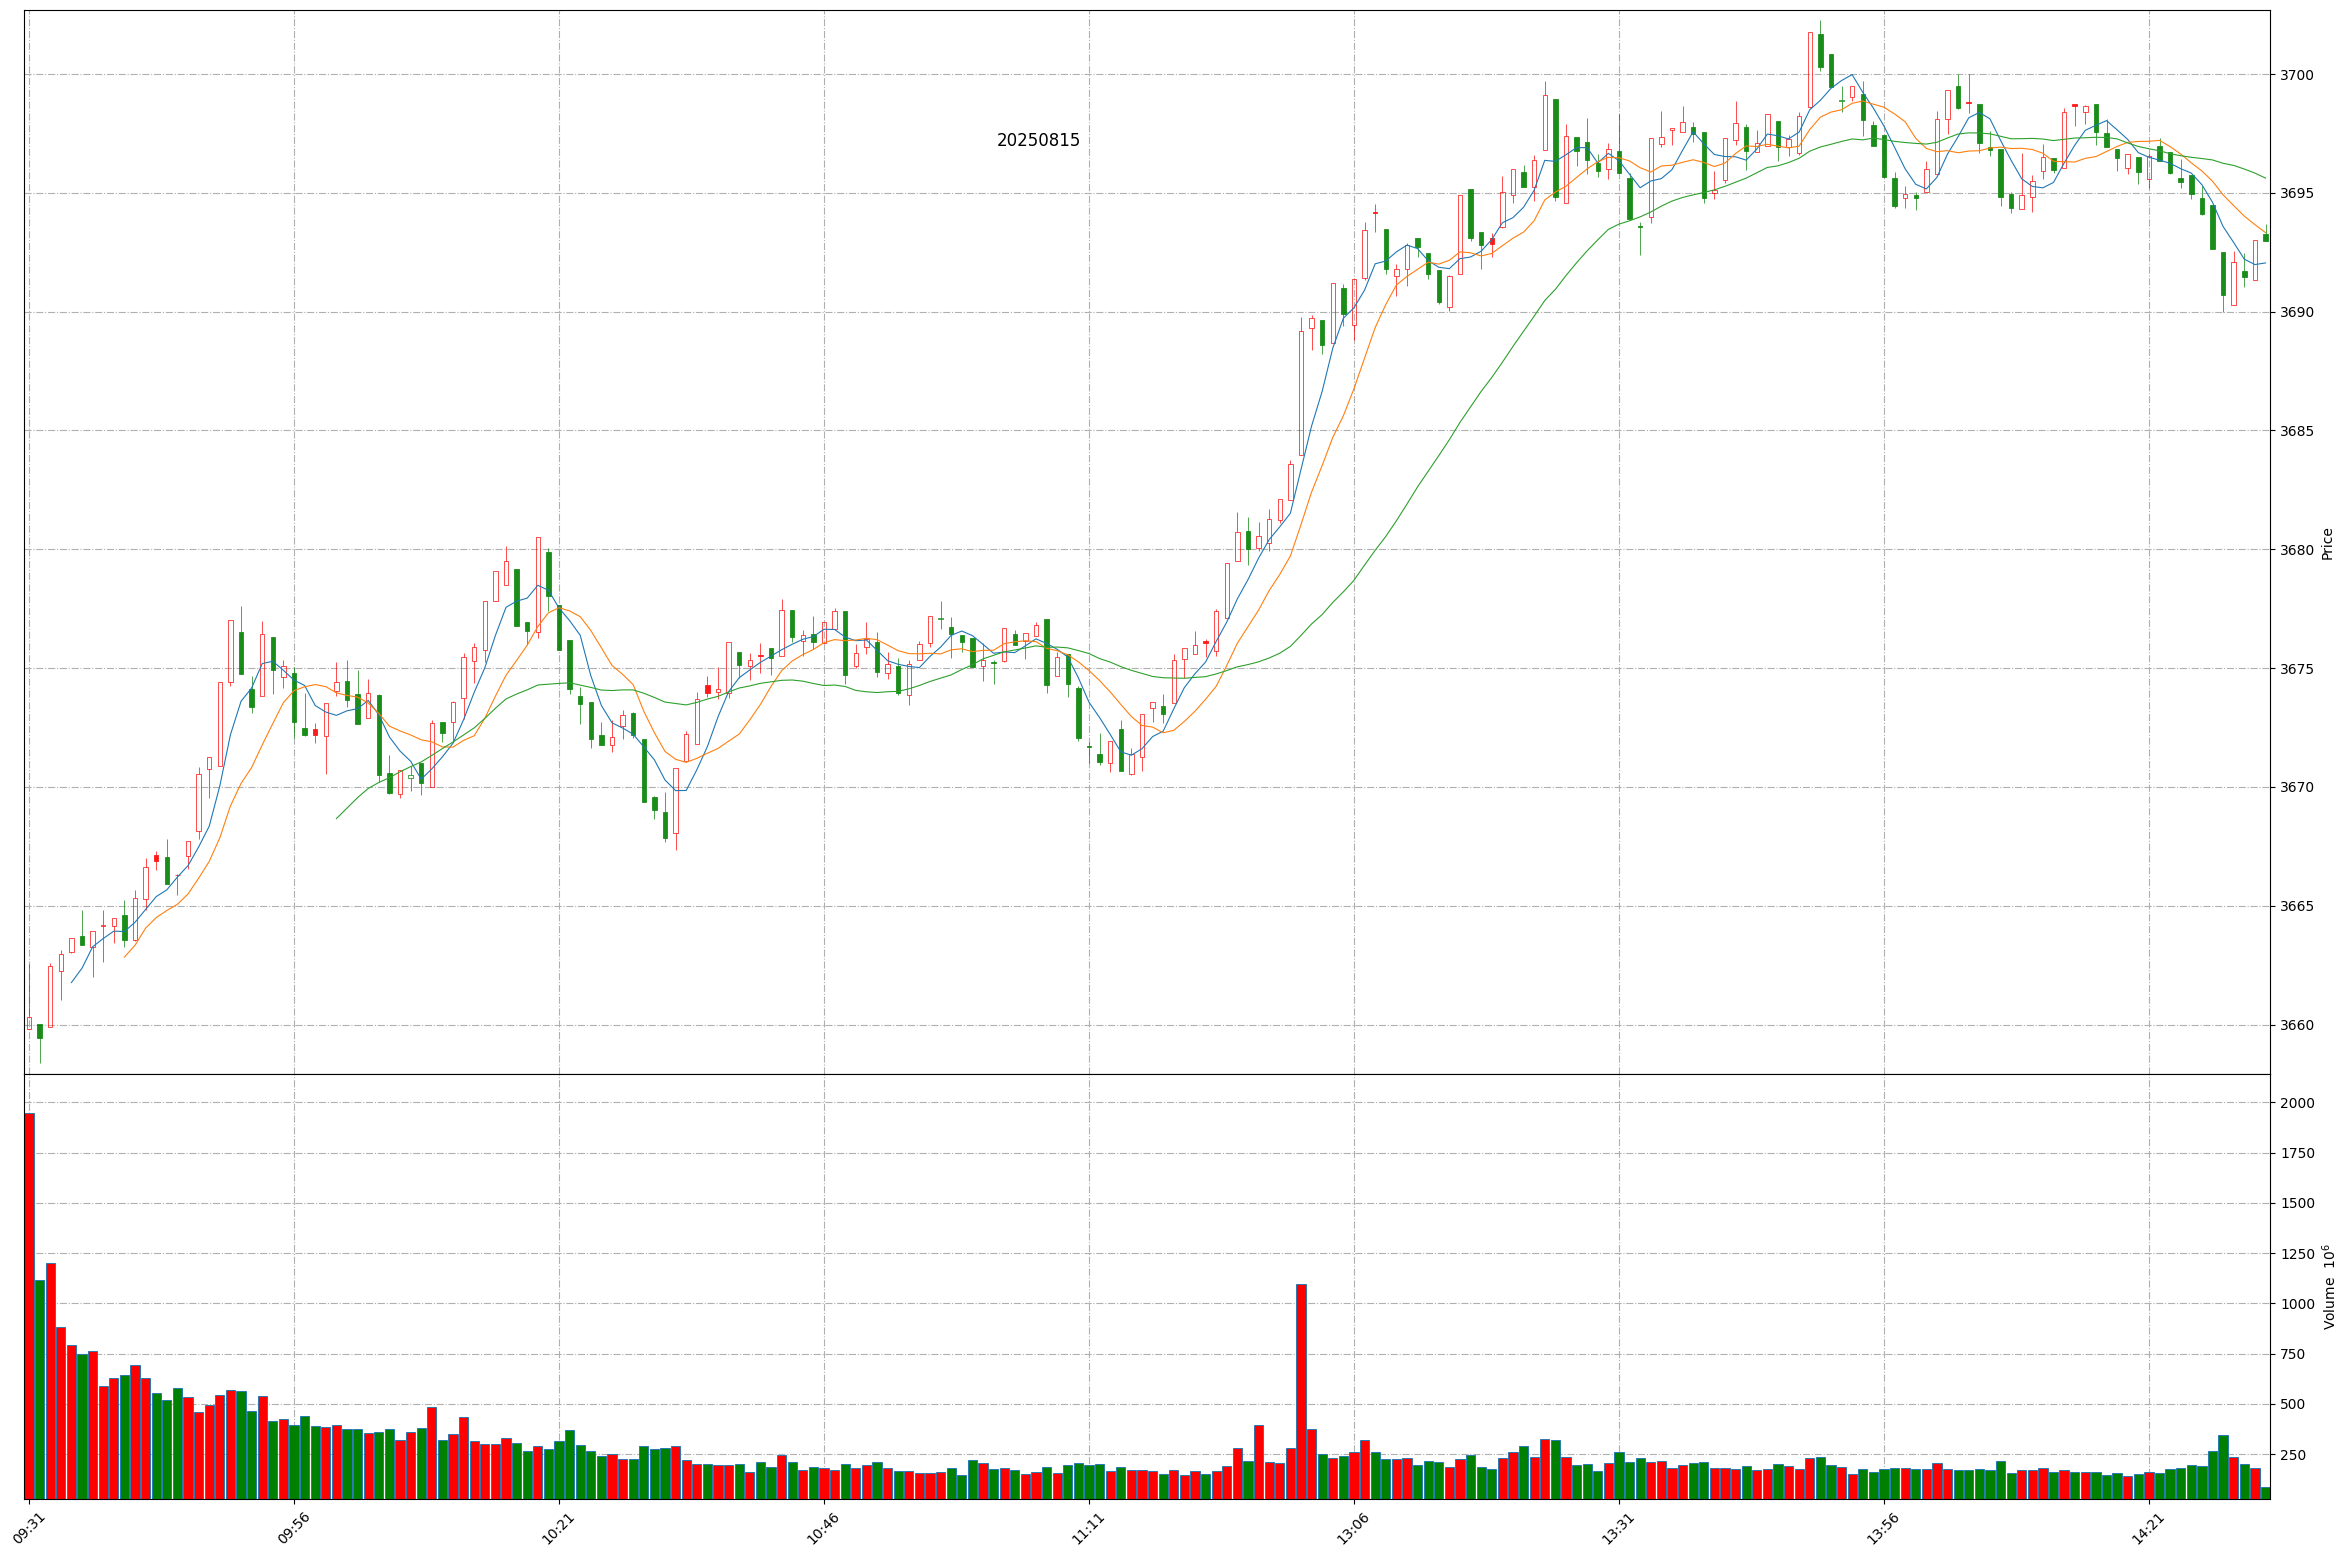
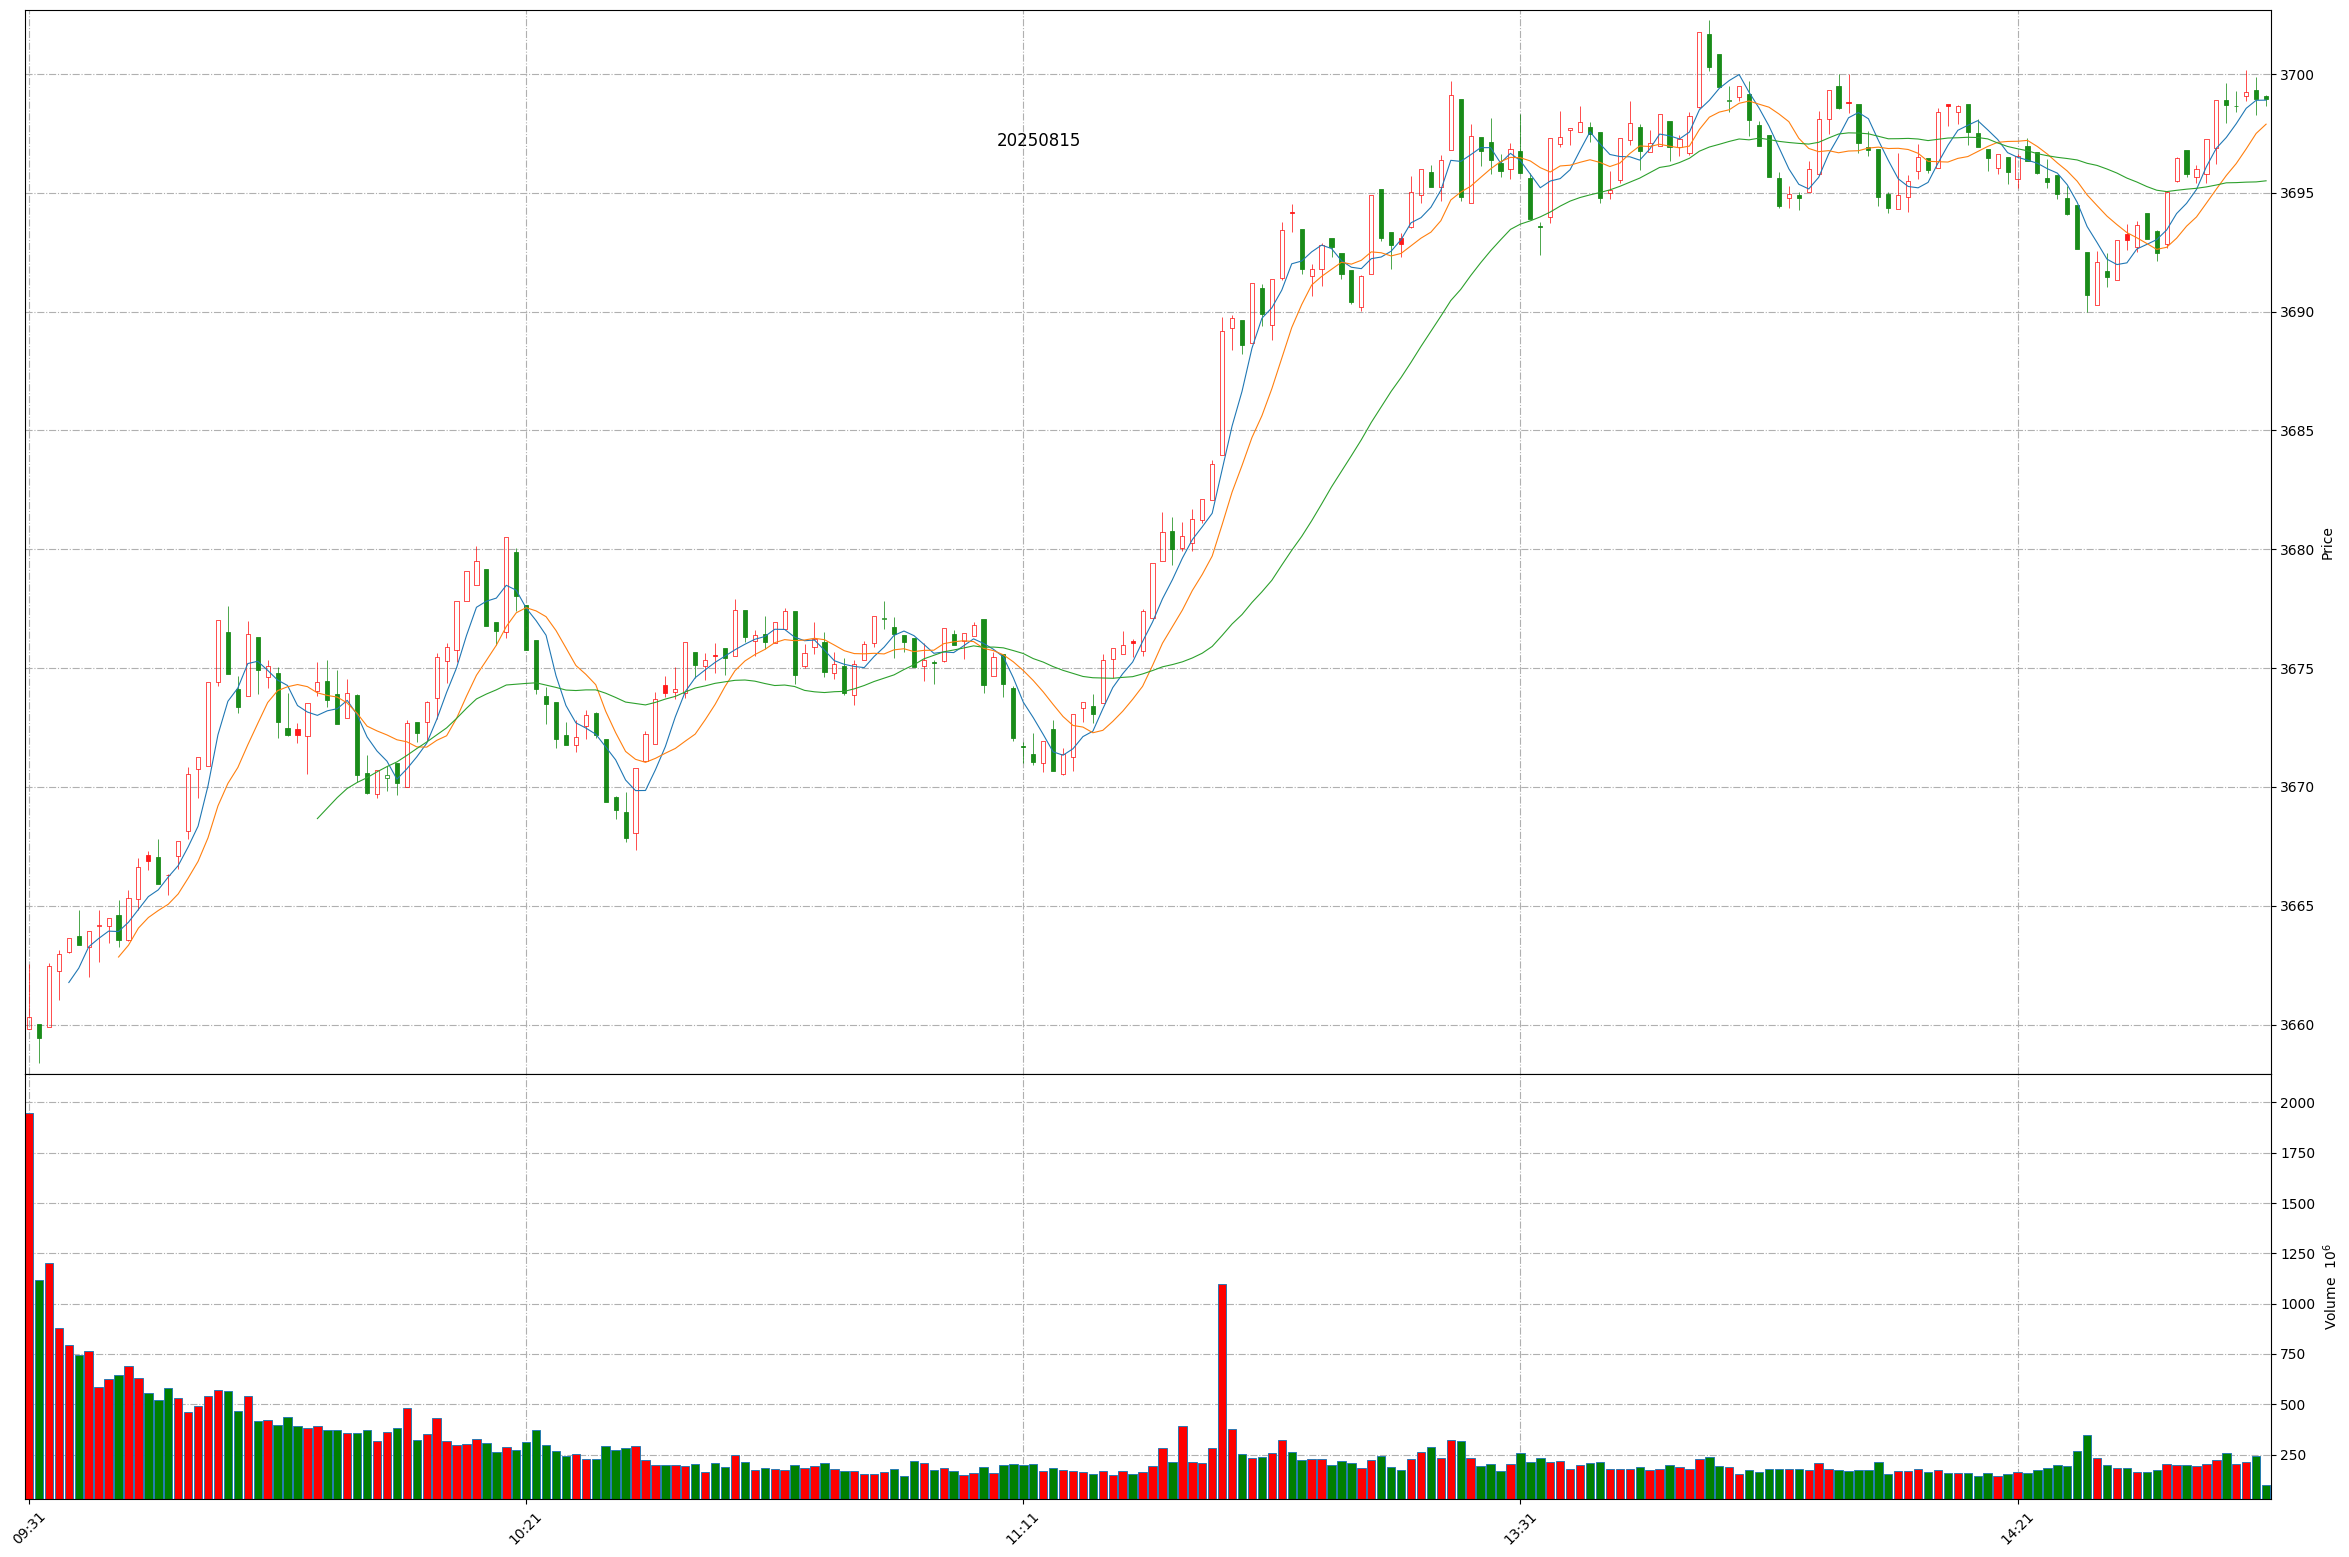
Github action update at 2025-08-15 14:45:52.

diff --git a/README.md b/README.md
@@ -1,11 +1,11 @@
 
 # Daily-A-share-market-quotes 每日 A 股指数（5min 更新）- 20250815
 
-### 上证指数 20250815 14:31
+### 上证指数 20250815 14:45
 ![](./fig/2025/8/20250815-sh000001.png)
 
-### 深证成指 20250815 14:31
+### 深证成指 20250815 14:45
 ![](./fig/2025/8/20250815-sz399001.png)
 
-### 北证50 20250815 14:31
+### 北证50 20250815 14:45
 ![](./fig/2025/8/20250815-bj899050.png)
